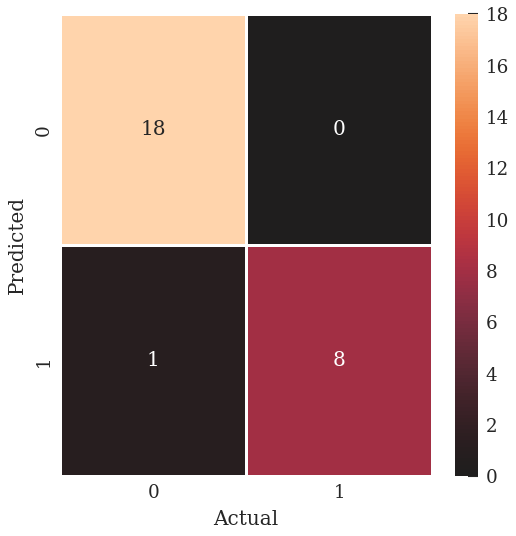
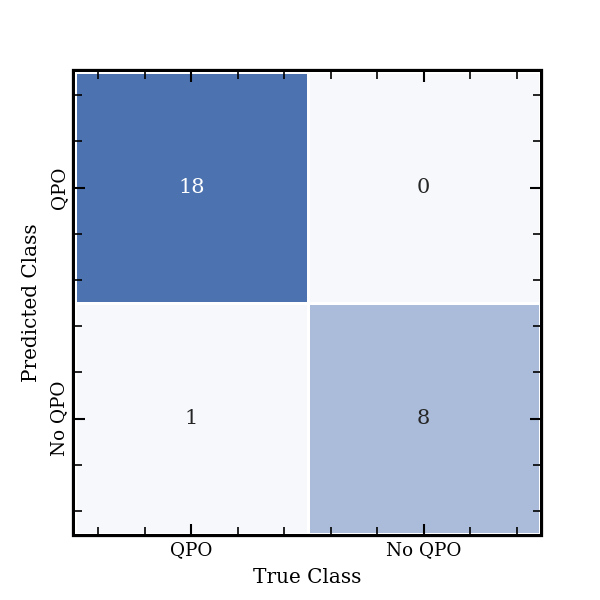
going to bed :zzz:

diff --git a/qpoml/plotting.py b/qpoml/plotting.py
@@ -4,17 +4,18 @@ import warnings
 import numpy as np
 import pandas as pd 
 import seaborn as sns 
+import matplotlib as mpl 
 import matplotlib.pyplot as plt 
 from matplotlib.colors import LinearSegmentedColormap
-#plt.style.use('https://gist.githubusercontent.com/thissop/44b6f15f8f65533e3908c2d2cdf1c362/raw/fab353d758a3f7b8ed11891e27ae4492a3c1b559/science.mplstyle')
+plt.style.use('/mnt/c/Users/Research/Documents/GitHub/QPOML/qpoml/stylish.mplstyle')
 
 #sns.set_style('ticks')
 #sns.set_context("notebook", font_scale=0.9, rc={"font.family": 'serif'})
 
 #plt.style.use('seaborn-darkgrid')
 #plt.rcParams['font.family'] = 'serif'
-sns.set_style('darkgrid')
-plt.style.use('https://gist.githubusercontent.com/thissop/44b6f15f8f65533e3908c2d2cdf1c362/raw/fab353d758a3f7b8ed11891e27ae4492a3c1b559/science.mplstyle')
+#sns.set_style('darkgrid')
+#plt.style.use('https://gist.githubusercontent.com/thissop/44b6f15f8f65533e3908c2d2cdf1c362/raw/fab353d758a3f7b8ed11891e27ae4492a3c1b559/science.mplstyle')
 sns.set_context("paper") #font_scale=
 sns.set_palette('deep')
 seaborn_colors = sns.color_palette('deep')
@@ -23,6 +24,7 @@ plt.rcParams['font.family'] = 'serif'
 plt.rcParams["mathtext.fontset"] = "dejavuserif"
 
 bi_cm = LinearSegmentedColormap.from_list("Custom", [seaborn_colors[0], (1,1,1), seaborn_colors[3]], N=20)
+bi_cm_r = LinearSegmentedColormap.from_list("Custom", [seaborn_colors[3], (1,1,1), seaborn_colors[0]], N=20)
 
 ### POST LOAD ### 
 
@@ -229,8 +231,13 @@ def plot_feature_importances(model, X_test, y_test, feature_names:list, kind:str
 
 #### CLASSIFICATION ####
 
-def plot_confusion_matrix(y_test:numpy.array, predictions:numpy.array, ax=None): 
+def plot_confusion_matrix(y_test:numpy.array, predictions:numpy.array, auc:float=None, ax=None, cbar:bool=False, labels:list=None): 
     from qpoml.utilities import confusion_matrix 
+
+    mpl.rcParams.update(mpl.rcParamsDefault)
+
+    sns.set_style('whitegrid')
+    plt.rcParams['font.family']='serif'
 
     internal = False 
     if ax is None: 
@@ -239,17 +246,24 @@ def plot_confusion_matrix(y_test:numpy.array, predictions:numpy.array, ax=None):
 
     cm, acc = confusion_matrix(y_test=np.array(y_test), predictions=np.array(predictions))
 
-    sns.heatmap(cm, annot=True, center=0.0, linewidths=.5, ax=ax)
-    ax.set(xlabel='Actual', ylabel='Predicted')
+    if labels is None: 
+        sns.heatmap(cm, annot=True, linewidths=.5, ax=ax, center=0.0, cmap=bi_cm_r, cbar=cbar)
+    else: 
+        sns.heatmap(cm, annot=True, linewidths=.5, ax=ax, center=0.0, cmap=bi_cm_r, cbar=cbar, yticklabels=labels, xticklabels=labels)
+    ax.set(xlabel='True Class', ylabel='Predicted Class')#, xticks=[0,1], yticks=[0,1])
+    #ax.axis('off')
+    #ax.tick_params(top=False, bottom=False, left=False, right=False)
 
-    warnings.warn('replace cmap!')
+    ax.patch.set_edgecolor('black')  
+
+    ax.patch.set_linewidth('3')
 
     if internal: 
-        plt.tight_layout()
+        fig.tight_layout()
 
     return ax
 
-def plot_roc(fpr:np.array, tpr:np.array, auc:float, std_auc:float=None, std_tpr:float=None, ax=None):
+def plot_roc(fpr:np.array, tpr:np.array, std_tpr:float=None, ax=None, auc:float=None, std_auc:float=None):
     '''
     
     Notes
@@ -262,15 +276,13 @@ def plot_roc(fpr:np.array, tpr:np.array, auc:float, std_auc:float=None, std_tpr:
     if ax is None: 
         fig, ax = plt.subplots()
 
-
-    ax.plot([0, 1], [0, 1], linestyle="--", lw=2, color="r", label="Chance", alpha=0.8)
-
     if std_auc is not None: 
         roc_label = r"Mean ROC (AUC = %0.2f $\pm$ %0.2f)" % (auc, std_auc)
     else: 
         roc_label = 'ROC (AUC = %0.2f )' % auc
 
-    ax.plot(fpr,tpr,color="b", label=roc_label, lw=2, alpha=0.8)
+    ax.plot(fpr,tpr, label=roc_label, lw=1, alpha=1)
+    ax.plot([0, 1], [0, 1], linestyle="--", lw=1, color='black', label="Chance", alpha=1)
 
     if std_tpr is not None: 
         tprs_upper = np.minimum(tpr + std_tpr, 1)
@@ -280,17 +292,15 @@ def plot_roc(fpr:np.array, tpr:np.array, auc:float, std_auc:float=None, std_tpr:
             tprs_lower,
             tprs_upper,
             color="grey",
-            alpha=0.2,
-            label=r"$\pm$ 1 std. dev.",
-        )
+            alpha=0.2)
 
-    ax.set(xlim=[-0.05, 1.05], ylim=[-0.05, 1.05])
-    ax.legend(loc="lower right", fontsize='xx-small')
+    ax.set(xlim=[-0.05, 1.05], ylim=[-0.05, 1.05], xlabel='False Positive Rate', ylabel='True Positive Rate')
+    if auc is not None: 
+        ax.text(0.6, 0.2, f'AUC={round(auc,2)}', transform = ax.transAxes, size='large')
 
-    return ax 
+    #ax.legend(loc="lower right", fontsize='xx-small')
 
-    plt.clf()
-    plt.close() 
+    return ax  
     
 # External Utilities # 
 

diff --git a/development/testing/MAXI_J1535-571/class_testing.py b/development/testing/MAXI_J1535-571/class_testing.py
@@ -1,6 +1,7 @@
 from qpoml import collection 
 from sklearn.ensemble import RandomForestClassifier
 from sklearn.neighbors import KNeighborsClassifier
+from sklearn.linear_model import LogisticRegression as logistic
 import numpy as np
 import pandas as pd 
 import matplotlib.pyplot as plt 
@@ -15,18 +16,31 @@ collec = collection()
 collec.load(qpo_csv=qpo_path, context_csv=scalar_context_path, context_preprocess=context_preprocess_dict, approach='classification', units=units)
 collec.evaluate(model=RandomForestClassifier(), evaluation_approach='k-fold', folds=10, stratify=True)
 
-print(collec.predictions[0])
-print(collec.y_test[0])
+import seaborn as sns 
+import matplotlib.pyplot as plt 
+from matplotlib.colors import LinearSegmentedColormap
+
+#plt.rcParams['font.family'] = 'serif'
+#plt.style.use('https://gist.githubusercontent.com/thissop/44b6f15f8f65533e3908c2d2cdf1c362/raw/fab353d758a3f7b8ed11891e27ae4492a3c1b559/science.mplstyle')
+#sns.set_context("paper") #font_scale=
+#sns.set_palette('deep')
+#seaborn_colors = sns.color_palette('deep')
+
+#plt.rcParams['font.family'] = 'serif'
+#plt.rcParams["mathtext.fontset"] = "dejavuserif"
+
+#bi_cm = LinearSegmentedColormap.from_list("Custom", [seaborn_colors[0], (1,1,1), seaborn_colors[3]], N=20)
 
 from qpoml.plotting import plot_roc  
 import os 
+
 os.chdir('/mnt/c/Users/Research/Documents/GitHub/QPOML/development/testing/MAXI_J1535-571')
 
 fig, ax = plt.subplots(figsize=(4,4))
 
 fpr, tpr, std_tpr, auc, std_auc = collec.roc_and_auc()
 
-plot_roc(fpr, tpr, auc, std_auc, std_tpr, ax = ax)
+plot_roc(fpr, tpr, std_tpr, ax = ax, auc=std_auc)
 
 plt.savefig('temp_roc.png', dpi=150)
 
@@ -35,7 +49,7 @@ plt.close()
 
 fig, ax = plt.subplots(figsize=(4,4))
 
-collec.plot_confusion_matrix(ax=ax)
+ax = collec.plot_confusion_matrix(ax=ax, labels=['QPO', 'No QPO'])
 
 plt.savefig('temp_matrix.png', dpi=150)
 

diff --git a/qpoml/main.py b/qpoml/main.py
@@ -401,7 +401,6 @@ class collection:
             #test_indices = np.array(test_indices).astype(int)
 
             for train_indices_fold, test_indices_fold in zip(train_indices, test_indices):
-                print('splitting')
                 X_train_fold = np.array(context_tensor[train_indices_fold])
                 X_test_fold = np.array(context_tensor[test_indices_fold])
                 y_train_fold = np.array(qpo_tensor[train_indices_fold])
@@ -935,8 +934,6 @@ class collection:
                     true = y_test[i]
                     pred = predictions[i]
 
-                    print(true, pred)
-
                     fpr, tpr, _ = roc_curve(true, pred)
                     if len(tpr)==np.sum(np.isfinite(tpr)):
                         auc_value = auc(fpr, tpr)
@@ -966,7 +963,7 @@ class collection:
         else: 
             raise Exception('')
 
-    def plot_confusion_matrix(self, fold:int=None, ax=None):
+    def plot_confusion_matrix(self, fold:int=None, ax=None, cbar:bool=False, labels:list=None):
         self.check_evaluated('plot_confusion_matrix')
 
         from qpoml.plotting import plot_confusion_matrix
@@ -984,13 +981,11 @@ class collection:
                 y_test = y_test[0]
                 predictions = predictions[0]
             
-            ax = plot_confusion_matrix(y_test, predictions, ax=ax)
+            ax = plot_confusion_matrix(y_test, predictions, ax=ax, cbar=cbar, labels=labels)
             return ax 
 
         else: 
             raise Exception('')
-
-        
 
     ## GOTCHAS ##
     
